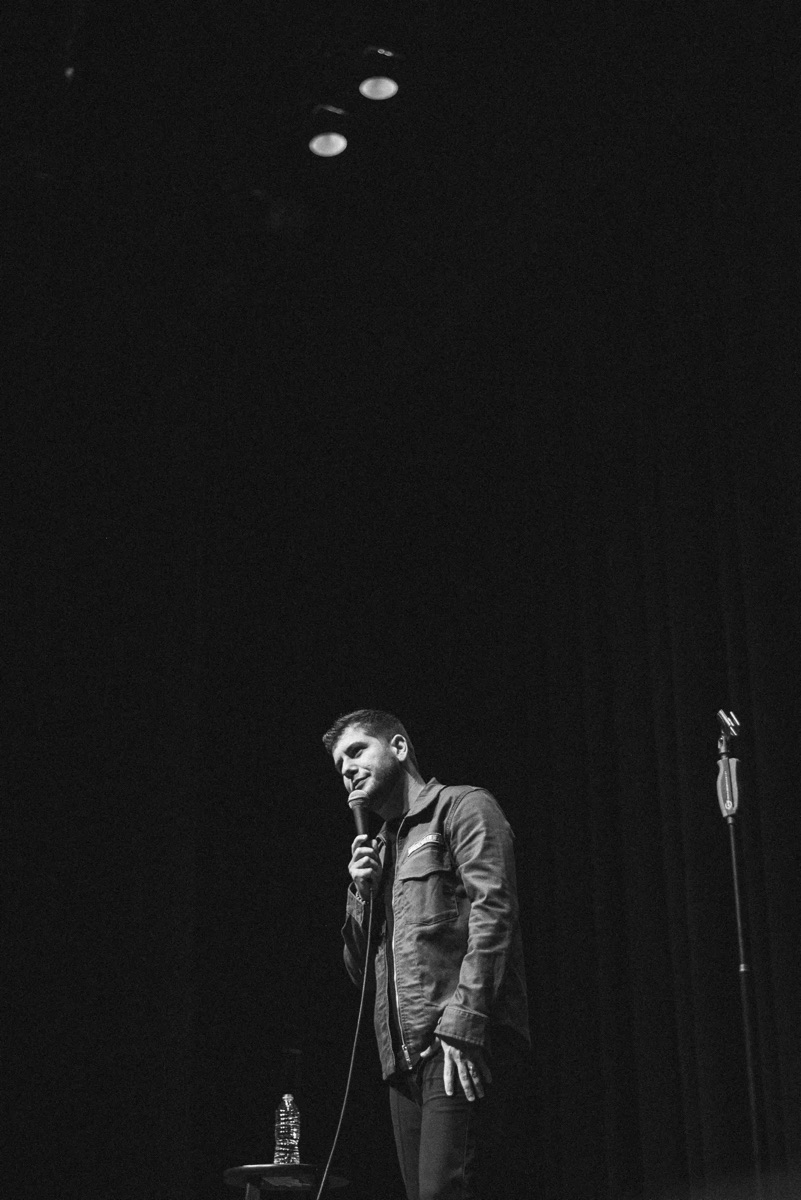
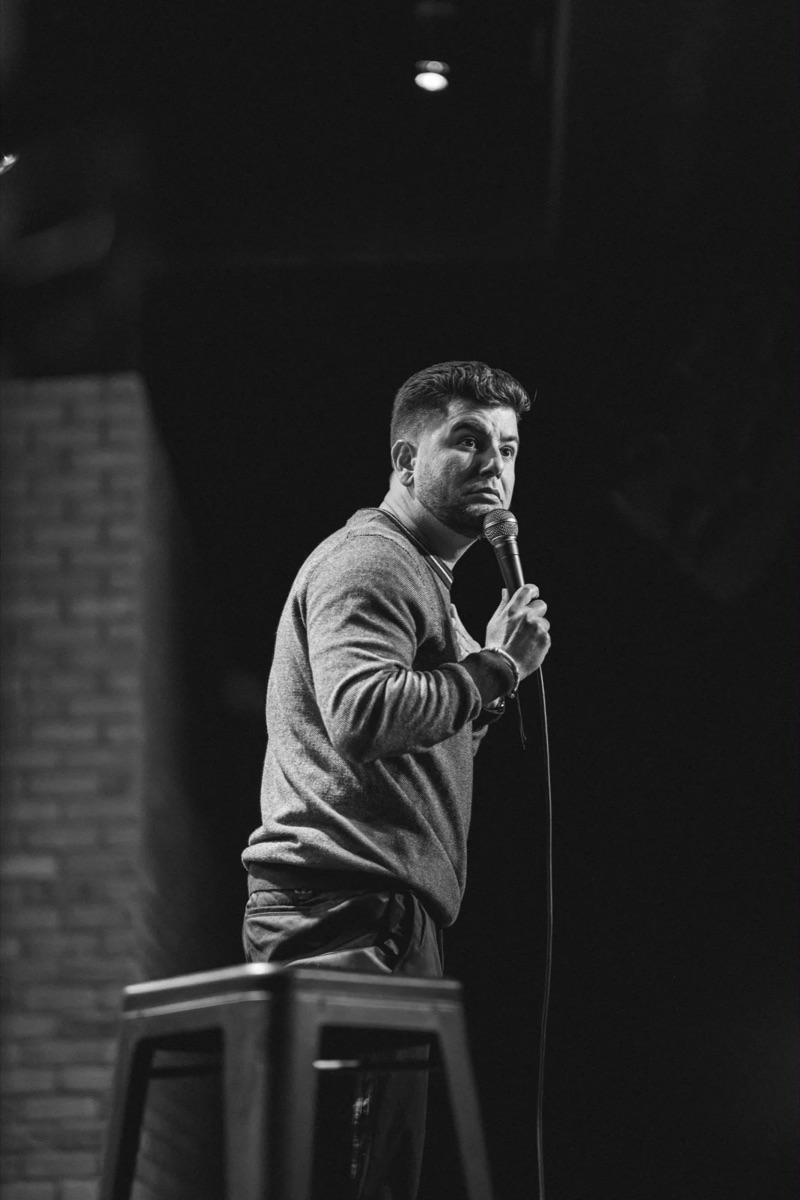
nueva foto

diff --git a/src/components/Footer.tsx b/src/components/Footer.tsx
@@ -3,22 +3,24 @@ import { INSTAGRAM_URL, YOUTUBE_CHANNEL_URL } from "../data";
 export default function Footer() {
   return (
     <footer className="footer">
-      <div className="footer__logo">
-        RAMI<span>GONZÁLEZ</span>
+      <div className="footer__inner">
+        <div className="footer__logo">
+          RAMI<span>GONZÁLEZ</span>
+        </div>
+        <p className="footer__copy">Todos los derechos reservados © {new Date().getFullYear()}</p>
+        <div className="footer__social">
+          <a href={YOUTUBE_CHANNEL_URL} target="_blank" rel="noreferrer" aria-label="YouTube">
+            <svg viewBox="0 0 24 24" width="22" height="22" fill="currentColor" aria-hidden="true">
+              <path d="M23.5 6.19a3.02 3.02 0 0 0-2.12-2.14C19.51 3.5 12 3.5 12 3.5s-7.51 0-9.38.55A3.02 3.02 0 0 0 .5 6.19 31.6 31.6 0 0 0 0 12a31.6 31.6 0 0 0 .5 5.81 3.02 3.02 0 0 0 2.12 2.14c1.87.55 9.38.55 9.38.55s7.51 0 9.38-.55a3.02 3.02 0 0 0 2.12-2.14A31.6 31.6 0 0 0 24 12a31.6 31.6 0 0 0-.5-5.81ZM9.6 15.6V8.4l6.27 3.6Z" />
+            </svg>
+          </a>
+          <a href={INSTAGRAM_URL} target="_blank" rel="noreferrer" aria-label="Instagram">
+            <svg viewBox="0 0 24 24" width="22" height="22" fill="currentColor" aria-hidden="true">
+              <path d="M12 2.16c3.2 0 3.58.01 4.85.07 1.17.05 1.8.25 2.23.41.56.22.96.48 1.38.9.42.42.68.82.9 1.38.16.42.36 1.06.41 2.23.06 1.27.07 1.65.07 4.85s-.01 3.58-.07 4.85c-.05 1.17-.25 1.8-.41 2.23-.22.56-.48.96-.9 1.38-.42.42-.82.68-1.38.9-.42.16-1.06.36-2.23.41-1.27.06-1.65.07-4.85.07s-3.58-.01-4.85-.07c-1.17-.05-1.8-.25-2.23-.41a3.72 3.72 0 0 1-1.38-.9 3.72 3.72 0 0 1-.9-1.38c-.16-.42-.36-1.06-.41-2.23-.06-1.27-.07-1.65-.07-4.85s.01-3.58.07-4.85c.05-1.17.25-1.8.41-2.23.22-.56.48-.96.9-1.38.42-.42.82-.68 1.38-.9.42-.16 1.06-.36 2.23-.41 1.27-.06 1.65-.07 4.85-.07M12 0C8.74 0 8.33.01 7.05.07c-1.28.06-2.15.26-2.91.56a5.87 5.87 0 0 0-2.13 1.38 5.87 5.87 0 0 0-1.38 2.13c-.3.76-.5 1.63-.56 2.91C.01 8.33 0 8.74 0 12s.01 3.67.07 4.95c.06 1.28.26 2.15.56 2.91.3.79.71 1.46 1.38 2.13.67.67 1.34 1.08 2.13 1.38.76.3 1.63.5 2.91.56C8.33 23.99 8.74 24 12 24s3.67-.01 4.95-.07c1.28-.06 2.15-.26 2.91-.56a5.87 5.87 0 0 0 2.13-1.38 5.87 5.87 0 0 0 1.38-2.13c.3-.76.5-1.63.56-2.91.06-1.28.07-1.69.07-4.95s-.01-3.67-.07-4.95c-.06-1.28-.26-2.15-.56-2.91a5.87 5.87 0 0 0-1.38-2.13A5.87 5.87 0 0 0 19.86.63c-.76-.3-1.63-.5-2.91-.56C15.67.01 15.26 0 12 0Zm0 5.84A6.16 6.16 0 1 0 18.16 12 6.16 6.16 0 0 0 12 5.84Zm0 10.16A4 4 0 1 1 16 12a4 4 0 0 1-4 4Zm6.41-10.4a1.44 1.44 0 1 1-1.44-1.44 1.44 1.44 0 0 1 1.44 1.44Z" />
+            </svg>
+          </a>
+        </div>
       </div>
-      <div className="footer__social">
-        <a href={YOUTUBE_CHANNEL_URL} target="_blank" rel="noreferrer" aria-label="YouTube">
-          <svg viewBox="0 0 24 24" width="22" height="22" fill="currentColor" aria-hidden="true">
-            <path d="M23.5 6.19a3.02 3.02 0 0 0-2.12-2.14C19.51 3.5 12 3.5 12 3.5s-7.51 0-9.38.55A3.02 3.02 0 0 0 .5 6.19 31.6 31.6 0 0 0 0 12a31.6 31.6 0 0 0 .5 5.81 3.02 3.02 0 0 0 2.12 2.14c1.87.55 9.38.55 9.38.55s7.51 0 9.38-.55a3.02 3.02 0 0 0 2.12-2.14A31.6 31.6 0 0 0 24 12a31.6 31.6 0 0 0-.5-5.81ZM9.6 15.6V8.4l6.27 3.6Z" />
-          </svg>
-        </a>
-        <a href={INSTAGRAM_URL} target="_blank" rel="noreferrer" aria-label="Instagram">
-          <svg viewBox="0 0 24 24" width="22" height="22" fill="currentColor" aria-hidden="true">
-            <path d="M12 2.16c3.2 0 3.58.01 4.85.07 1.17.05 1.8.25 2.23.41.56.22.96.48 1.38.9.42.42.68.82.9 1.38.16.42.36 1.06.41 2.23.06 1.27.07 1.65.07 4.85s-.01 3.58-.07 4.85c-.05 1.17-.25 1.8-.41 2.23-.22.56-.48.96-.9 1.38-.42.42-.82.68-1.38.9-.42.16-1.06.36-2.23.41-1.27.06-1.65.07-4.85.07s-3.58-.01-4.85-.07c-1.17-.05-1.8-.25-2.23-.41a3.72 3.72 0 0 1-1.38-.9 3.72 3.72 0 0 1-.9-1.38c-.16-.42-.36-1.06-.41-2.23-.06-1.27-.07-1.65-.07-4.85s.01-3.58.07-4.85c.05-1.17.25-1.8.41-2.23.22-.56.48-.96.9-1.38.42-.42.82-.68 1.38-.9.42-.16 1.06-.36 2.23-.41 1.27-.06 1.65-.07 4.85-.07M12 0C8.74 0 8.33.01 7.05.07c-1.28.06-2.15.26-2.91.56a5.87 5.87 0 0 0-2.13 1.38 5.87 5.87 0 0 0-1.38 2.13c-.3.76-.5 1.63-.56 2.91C.01 8.33 0 8.74 0 12s.01 3.67.07 4.95c.06 1.28.26 2.15.56 2.91.3.79.71 1.46 1.38 2.13.67.67 1.34 1.08 2.13 1.38.76.3 1.63.5 2.91.56C8.33 23.99 8.74 24 12 24s3.67-.01 4.95-.07c1.28-.06 2.15-.26 2.91-.56a5.87 5.87 0 0 0 2.13-1.38 5.87 5.87 0 0 0 1.38-2.13c.3-.76.5-1.63.56-2.91.06-1.28.07-1.69.07-4.95s-.01-3.67-.07-4.95c-.06-1.28-.26-2.15-.56-2.91a5.87 5.87 0 0 0-1.38-2.13A5.87 5.87 0 0 0 19.86.63c-.76-.3-1.63-.5-2.91-.56C15.67.01 15.26 0 12 0Zm0 5.84A6.16 6.16 0 1 0 18.16 12 6.16 6.16 0 0 0 12 5.84Zm0 10.16A4 4 0 1 1 16 12a4 4 0 0 1-4 4Zm6.41-10.4a1.44 1.44 0 1 1-1.44-1.44 1.44 1.44 0 0 1 1.44 1.44Z" />
-          </svg>
-        </a>
-      </div>
-      <p className="footer__copy">Todos los derechos reservados © {new Date().getFullYear()}</p>
     </footer>
   );
 }

diff --git a/src/index.css b/src/index.css
@@ -265,7 +265,7 @@ section {
   justify-content: center;
   position: relative;
   overflow: hidden;
-  padding-bottom: 34vh;
+  padding-bottom: 54vh;
   gap: 44px;
 }
 
@@ -275,7 +275,7 @@ section {
   width: 100%;
   height: 100%;
   object-fit: cover;
-  object-position: center 62%;
+  object-position: center 28%;
   filter: grayscale(0.1) contrast(1.05);
 }
 
@@ -745,14 +745,19 @@ section {
 /* ---------- footer ---------- */
 
 .footer {
-  padding: 50px 6vw;
+  padding: 18px 6vw;
   background: var(--bg-soft);
+  scroll-snap-align: start;
+}
+
+.footer__inner {
   display: flex;
   align-items: center;
   justify-content: space-between;
   flex-wrap: wrap;
   gap: 20px;
-  scroll-snap-align: start;
+  max-width: 720px;
+  margin: 0 auto;
 }
 
 .footer__logo {
@@ -787,10 +792,8 @@ section {
 }
 
 .footer__copy {
-  width: 100%;
   color: var(--ink-dim);
   font-size: 0.8rem;
-  text-align: center;
   margin: 0;
 }
 
@@ -863,14 +866,20 @@ section {
 
   .hero {
     justify-content: flex-start;
-    padding-top: 92px;
+    padding-top: 130px;
     padding-bottom: 40px;
     gap: 18px;
   }
 
+  .hero__title {
+    white-space: normal;
+    overflow-wrap: break-word;
+    font-size: clamp(1.6rem, 9vw, 3.2rem);
+  }
+
   .hero__image {
-    transform: scale(1.8);
-    transform-origin: center 80%;
+    transform: scale(1.15);
+    transform-origin: center 30%;
   }
 
   .hero__cta {

diff --git a/src/components/Hero.tsx b/src/components/Hero.tsx
@@ -1,13 +1,13 @@
-import stageMic from "../assets/stage-mic.webp";
+import heroImage from "../assets/main.webp";
 
 export default function Hero() {
   return (
     <section id="top" className="hero">
       <img
-        src={stageMic}
+        src={heroImage}
         alt="Rami González en el escenario"
         className="hero__image"
-        width={1335}
+        width={1333}
         height={2000}
         fetchPriority="high"
       />

diff --git a/index.html b/index.html
@@ -11,7 +11,7 @@
     <link rel="canonical" href="https://ramigonzalez.com/" />
     <link rel="preconnect" href="https://fonts.googleapis.com" />
     <link rel="preconnect" href="https://fonts.gstatic.com" crossorigin />
-    <link rel="preload" as="image" href="/src/assets/stage-mic.webp" />
+    <link rel="preload" as="image" href="/src/assets/main.webp" />
     <link
       href="https://fonts.googleapis.com/css2?family=Archivo+Black&family=Space+Grotesk:wght@400;500;600;700&display=swap"
       rel="stylesheet"
@@ -28,7 +28,7 @@
     />
     <meta property="og:image" content="https://ramigonzalez.com/og-image.jpg" />
     <meta property="og:image:type" content="image/jpeg" />
-    <meta property="og:image:width" content="801" />
+    <meta property="og:image:width" content="800" />
     <meta property="og:image:height" content="1200" />
     <meta property="og:locale" content="es_ES" />
 